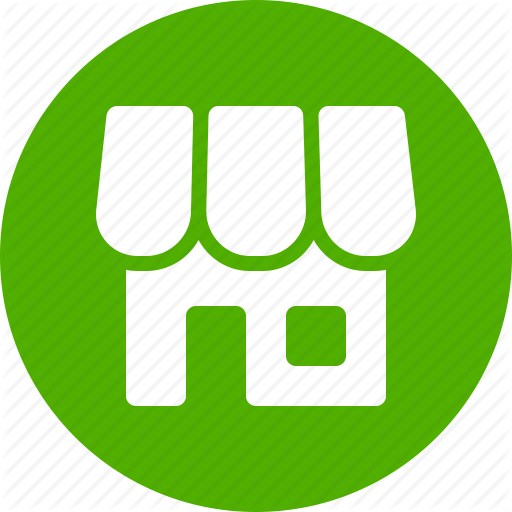
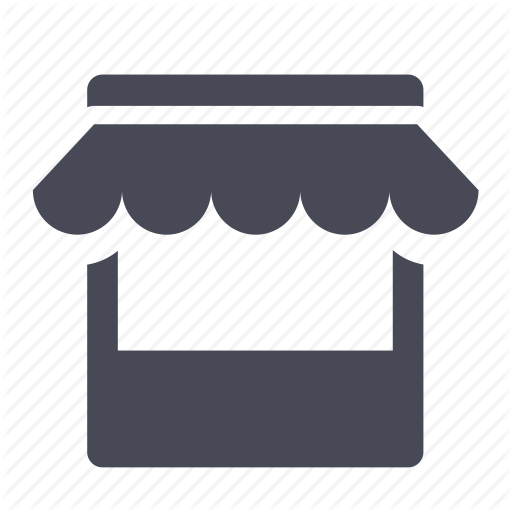
Revamped the GUI

diff --git a/src/Controllers/MarketplaceController.java b/src/Controllers/MarketplaceController.java
@@ -15,17 +15,17 @@ public class MarketplaceController implements Initializable {
     @FXML
     private ImageView imageView;
     @FXML
-    private ImageView imageView2;
+    private ImageView imageView1;
 
 
     @Override
     public void initialize(URL url, ResourceBundle resourceBundle) {
         imageView.setImage(new Image("https://usercontent1.hubstatic.com/11310434_f520.jpg"));
-        imageView2.setImage(new Image("https://www.kattkompaniet.nu/images/5.63.1606161417/kattleksaker-fatcat.jpeg"));
+        imageView1.setImage(new Image("https://i.imgur.com/UslMM9I.png"));
     }
 
     @FXML
-    public void sellButton(ActionEvent event){
+    public void sellButton(ActionEvent event) {
         SceneChanger.changeScene("../Views/Sell.fxml", "Sell");
     }
 }
